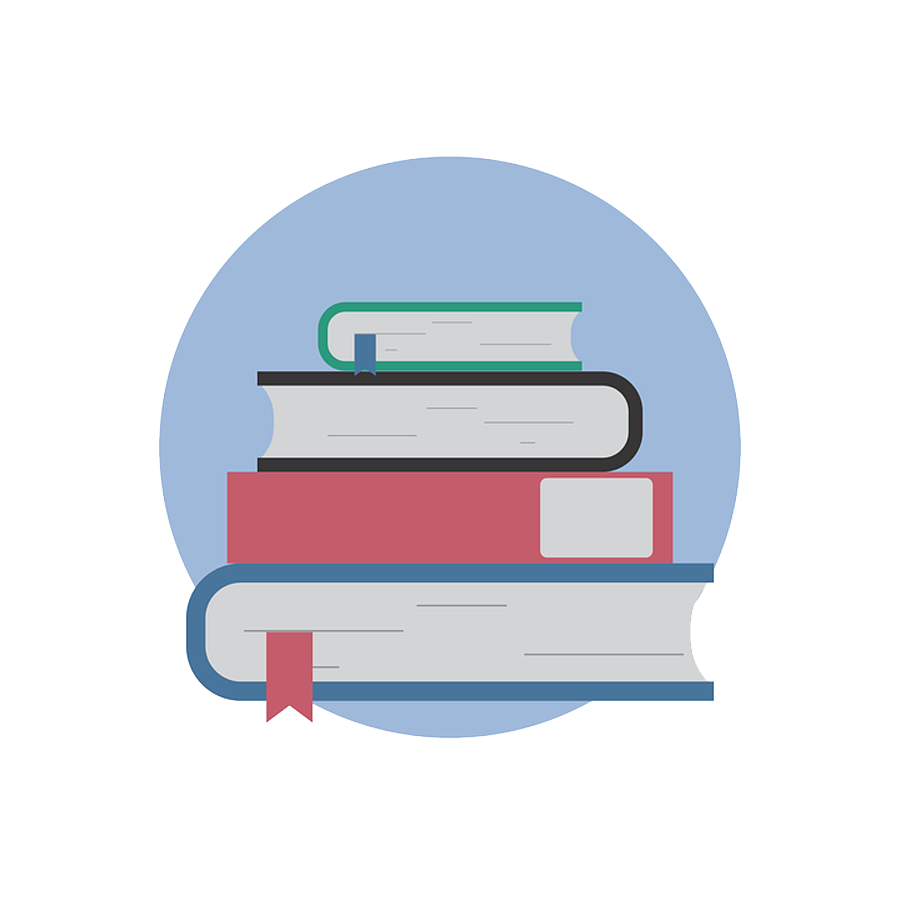
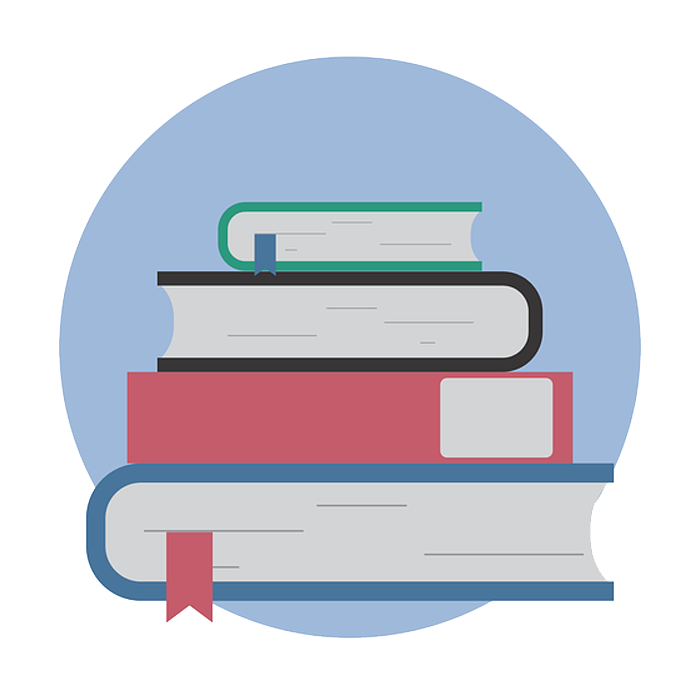
Login, register, some refactor

diff --git a/project1/book_review/templates/home.html b/project1/book_review/templates/home.html
@@ -7,6 +7,6 @@
             about book you recently read? If so, Read&Review is site for you :)
             Register and try.
         </p>
-        <img src="../static/images/books.png" width="500" height="500">
+        <img src="../static/images/books.png" width="425" height="425">
     </main>
 {% endblock %}

diff --git a/project1/book_review/models.py b/project1/book_review/models.py
@@ -1,0 +1,65 @@
+from book_review import db
+
+
+class User(db.Model):
+    user_id = db.Column('user_id', db.Integer, primary_key=True)
+    nick = db.Column('nick', db.String(30), unique=True, index=True, nullable=False)
+    email = db.Column('email', db.String(50), unique=True, index=True, nullable=False)
+    password = db.Column('password', db.String(64), nullable=False)
+
+    def __init__(self, nick, password, email):
+        self.nick = nick
+        self.password = password
+        self.email = email
+
+    @property
+    def is_authenticated(self):
+        return True
+
+    @property
+    def is_active(self):
+        return True
+
+    @property
+    def is_anonymous(self):
+        return False
+
+    def get_id(self):
+        return str(self.id)
+
+    def __repr__(self):
+        return f'<User {self.username}>'
+
+
+class Review(db.Model):
+    id = db.Column('id', db.Integer, primary_key=True)
+    book_isbn = db.Column('book_isbn', db.String(13), unique=True, index=True, nullable=False)
+    rating = db.Column('rating', db.Integer, nullable=False)
+    review = db.Column('review', db.String(2000), nullable=False)
+    reviewer = db.Column('reviewer', db.Integer, db.ForeignKey('users.user_id'), nullable=False)
+
+    def __init__(self, book_isbn, rating, review, reviewer):
+        self.book_isbn = book_isbn
+        self.rating = rating
+        self.review = review
+        self.reviewer = reviewer
+
+    def __repr__(self):
+        return f'<Review for book: {self.book_isbn}\n{self.username}>'
+
+
+class Book(db.Model):
+    id = db.Column('id', db.Integer, primary_key=True)
+    isbn = db.Column('isbn', db.String(13), unique=True, index=True, nullable=False)
+    author = db.Column('rating', db.String(200))
+    title = db.Column('title', db.String(200), nullable=False)
+    publication_year = db.Column('publication_year', db.Integer)
+
+    def __init__(self, isbn, author, title, publication_year):
+        self.isbn = isbn
+        self.author = author
+        self.title = title
+        self.publication_year = publication_year
+
+    def __repr__(self):
+        return f'<Book: {self.title}, isbn:{self.isbn}>'

diff --git a/project1/book_review/views.py b/project1/book_review/views.py
@@ -1,7 +1,8 @@
-from flask import render_template, redirect, url_for, g
-from flask_login import current_user, logout_user, login_required
+from flask import render_template, redirect, request, url_for, g, flash
+from flask_login import current_user, logout_user, login_required, login_user
 
-from book_review import app, lm
+from book_review import app, lm, db
+from .models import User
 
 
 @app.route('/')
@@ -9,14 +10,30 @@ def home():
     return render_template('home.html')
 
 
-@app.route('/login')
+# TODO: hash password
+@app.route('/login', methods=['GET', 'POST'])
 def login():
-    pass
+    if request.method == 'GET':
+        return render_template('login.html')
+    username = request.form['username']
+    password = request.form['password']
+    registered_user = User.query.filter_by(nick=username, password=password)
+
+    if registered_user is None:
+        flash('Username or Password is invalid', 'error')
+        return redirect(url_for('login'))
+    login_user(registered_user)
+    return redirect(request.args.get('next') or url_for('home'))
 
 
-@app.route('/register')
+@app.route('/register', methods=['GET, POST'])
 def register():
-    pass
+    if request.method == 'GET':
+        return render_template('register.html')
+    user = User(request.form['username'], request.form['password'], request.form['email'])
+    db.session.add(user)
+    db.session.commit()
+    return redirect(url_for('login'))
 
 
 @app.route('/logout')
@@ -35,6 +52,11 @@ def search():
 @login_required
 def book_info(isbn: int):
     pass
+
+
+@lm.user_loader
+def load_user(id: str):
+    return User.query.get(int(id))
 
 
 @app.before_request

diff --git a/project1/book_review/__init__.py b/project1/book_review/__init__.py
@@ -1,7 +1,10 @@
 from flask import Flask
 from flask_login import LoginManager
+from flask_sqlalchemy import SQLAlchemy
 
-app = Flask(__name__)
+app = Flask(__name__, instance_relative_config=True)
+app.config.from_pyfile('config_file.cfg')
+db = SQLAlchemy(app)
 lm = LoginManager()
 lm.init_app(app)
 lm.login_view = 'login'

diff --git a/project1/utils_scripts/import.py b/project1/utils_scripts/import.py
@@ -2,7 +2,7 @@ import logging
 from argparse import ArgumentParser
 from csv import Error
 from psycopg2 import DatabaseError, DataError
-from book_review.utils.connection import PostgresConnection
+from connection import PostgresConnection
 
 logging.basicConfig(format='%(asctime)s %(message)s', level=logging.INFO)
 

diff --git a/project1/run.py b/project1/run.py
@@ -1,2 +1,4 @@
 from book_review import app
-app.run(debug=True)
+
+if __name__ == '__main__':
+    app.run(debug=True)

diff --git a/project1/README.md b/project1/README.md
@@ -3,6 +3,9 @@
 Harvard's CS50 - Web Programming with Python and JavaScript.  
 Second project from cs50 course - book review website.
 
+I've bent project's requirements a little bit. Yes, I' ve used ORM(but some things are done with pure SQL), because I am familiar with SQL and i want to lear Flask and its extensions more.   
+Additional and not necessary library used for import script - psycopg2 it also used only for learning purpose :) 
+
 ###### Overview:
 ```angular2html
 In this project, you’ll build a book review website. 
